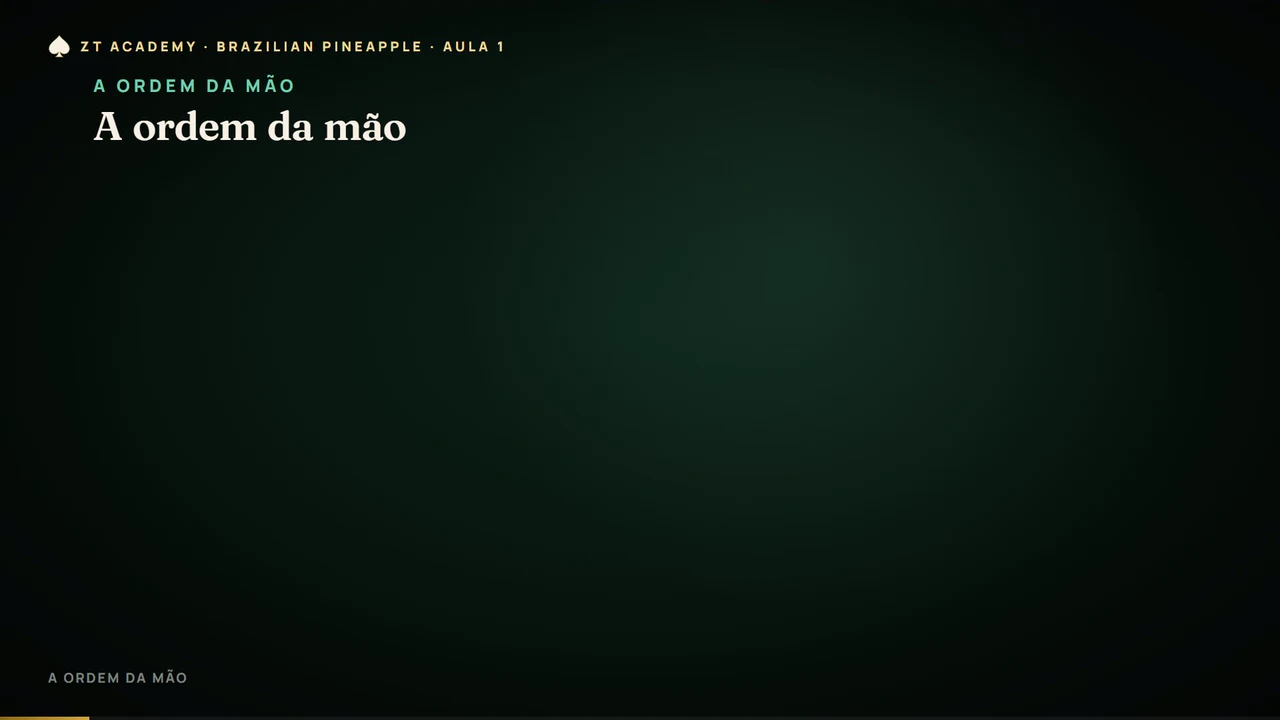
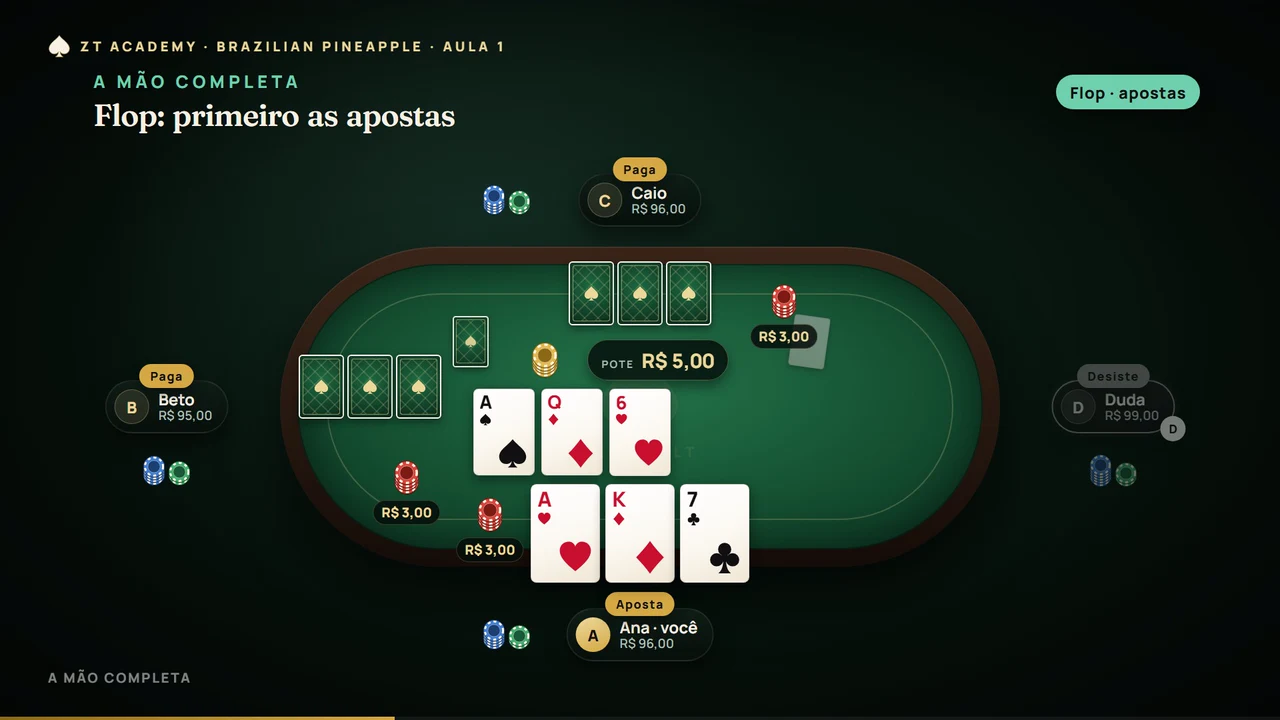
feat(academy): mesa de treino com a mesa oval do jogo
A mesa de treino passa a usar a mesma mesa do jogo (PokerTable em modo
vitrine): oval, placas com avatar, cartas fechadas dos bots, fichas da
aposta no feltro e as mesmas animações. Valores em fichas (formatAmount),
bots identificados pelo perfil e a escolha da carta na troca e no descarte
na área de ações. No fim da mão, as cinco cartas da melhor mão ficam
destacadas.

Ajustes: no celular, os assentos laterais ficam ancorados pela borda para a
placa não sair da tela; a etiqueta de troca não aparece mais no showdown;
capa da aula m5l3 refeita num momento com a mesa visível.

diff --git a/Frontend-Web/src/pages/TrainingPage.tsx b/Frontend-Web/src/pages/TrainingPage.tsx
@@ -1,6 +1,7 @@
 import { useEffect, useRef, useState } from "react";
 import { Link, useParams, useSearchParams } from "react-router";
 import { PlayingCard } from "@/components/PlayingCard";
+import { PokerTable } from "@/components/PokerTable";
 import { CourseSources } from "@/components/CourseSources";
 import { COURSE, findLesson } from "@/lib/course";
 import { actionLabel, newStudySeed, phaseLabel, playStudy, profileLabel, readStudyRecords, saveStudyRecord, TRAINING, type StudyAction, type StudyRecord, type StudyResponse, type TrainingScenario } from "@/lib/academy";
@@ -8,6 +9,9 @@ import "./training.css";
 
 const chips = (n: number) => n.toLocaleString("pt-BR");
 const variantName: Record<string, string> = { holdem: "Texas Hold’em", short_deck: "Texas Hold’em Short Deck", omaha: "Omaha 4", pineapple_draw: "Brazilian Pineapple" };
+
+/** Lugares na mesa de seis para 2, 3 ou 4 jogadores: herói embaixo, os outros no arco de cima. */
+const SEAT_ORDER: Record<number, number[]> = { 2: [0, 3], 3: [0, 2, 4], 4: [0, 2, 3, 4], 5: [0, 1, 2, 4, 5], 6: [0, 1, 2, 3, 4, 5] };
 
 export function TrainingPage() {
   const { moduleId } = useParams();
@@ -108,24 +112,51 @@ function TrainingSession({ moduleTitle, scenarios, initialId }: { moduleTitle: s
     <div className="study-workspace">
       <section className="study-main" aria-label="Mesa simuladora" aria-busy={busy}>
         <div className="study-table-head"><span>{state ? phaseLabel[state.phase] : "Preparando mesa…"}</span><span>{replayIndex !== null ? `Replay · passo ${replayIndex + 1}` : "Distribuição " + seed}</span></div>
-        {state && <div className="study-felt">
-          <div className="study-opponents">{state.players.slice(1).map((p, index) => <div key={p.id} className={`study-seat ${p.folded ? "is-folded" : ""}`}>
-            <div className="study-seat-top"><strong>{p.name}</strong><span>{p.position}</span></div><p>{profileLabel[scenario.profiles[index]]}</p>
-            <div className="study-cards">{Array.from({ length: p.card_count }, (_, i) => <PlayingCard key={i} code={p.cards[i]} faceDown={!p.cards[i]} size="sm" />)}</div>
-            <p><b>{chips(p.stack)}</b> fichas {p.all_in ? "· ALL-IN" : p.folded ? "· FOLD" : ""}</p>{p.bet > 0 && <span className="study-chip">Na rodada: {chips(p.bet)}</span>}
-            {typeof p.draw_count === "number" && <span className="study-chip">{p.draw_count === 0 ? "Manteve" : state.phase === "river" ? "Descartou" : `Trocou ${p.draw_count}`}</span>}
-            {state.finished && p.category && <p>{p.category}</p>}
-          </div>)}</div>
-          <div className="study-board"><span className="study-pot">Pote {chips(state.pot)}</span>{state.ante > 0 && <small>Ante do BB {chips(state.ante)} · pago {chips(state.ante_paid)} por {state.players.find(p => p.id === state.ante_player_id)?.name}</small>}<div className="study-cards">{Array.from({ length: 5 }, (_, i) => state.board[i] ? <PlayingCard key={i} code={state.board[i]} /> : <span key={i} className="study-card-slot" />)}</div><span className="study-watermark">ZT / ACADEMY</span></div>
-          <div className="study-hero"><span className="study-hero-label">VOCÊ · {state.players[0].position}</span><div className="study-cards">{state.players[0].cards.map((c, i) => drawing && !disabled
-            ? <button key={i} type="button" className={`rounded-sm p-0.5 ${swapPick === i ? "ring-2 ring-gold-bright" : "ring-1 ring-transparent"}`} aria-pressed={swapPick === i} aria-label={`Selecionar carta ${i + 1} para ${discarding ? "descartar" : "trocar"}`} onClick={() => setSwapPick(swapPick === i ? null : i)}><PlayingCard code={c} /></button>
-            : <PlayingCard key={i} code={c} highlight={state.finished && state.players[0].best_five.includes(c)} />)}</div><p><b>{chips(state.players[0].stack)}</b> fichas · investidas na rodada: {chips(state.players[0].bet)}</p>{(mode === "guided" || state.finished) && state.players[0].category && <p className="text-gold-bright">{state.players[0].category}</p>}</div>
+        {state && <div className="study-live">
+          <PokerTable
+            showcase
+            formatAmount={chips}
+            players={state.players.map((p, index) => ({
+              id: p.id,
+              name: index === 0 ? "Você" : `${p.name} · ${profileLabel[scenario.profiles[index - 1]] ?? ""}`,
+              chips: p.stack,
+              bet: p.bet,
+              cards: p.cards,
+              folded: p.folded,
+              is_active: !state.finished && state.acting === index,
+              is_dealer: p.position === "BTN" || p.position === "BTN/SB",
+              seat: SEAT_ORDER[state.players.length]?.[index] ?? index,
+              is_sitting: true,
+              draw_count: p.draw_count ?? null,
+            })) as never}
+            communityCards={state.board}
+            stage={state.phase}
+            pots={(state.pot > 0 ? [{ amount: state.pot - state.players.reduce((sum, p) => sum + p.bet, 0), eligible_players: [] }] : []) as never}
+            localPlayerId="hero"
+            availableActions={[]}
+            onAction={() => {}}
+            drawing={state.drawing}
+            discarding={state.discarding}
+            raiseAmount={0}
+            onRaiseChange={() => {}}
+            callAmount={0}
+            minimumWager={0}
+            maximumWager={0}
+            winners={state.finished && data ? Object.entries(data.payouts).filter(([, value]) => value > 0).map(([id]) => id) : []}
+            showdown={(state.finished ? state.players.filter((p) => !p.folded && p.best_five.length === 5).map((p) => ({ player_id: p.id, player_name: p.name, hand_name: p.category ?? "", cards: p.best_five })) : []) as never}
+            maxPlayers={6}
+          />
+          <div className="study-live-foot">
+            <span>VOCÊ · {state.players[0].position}</span>
+            {state.ante > 0 && <span>Ante do BB {chips(state.ante)} · pago {chips(state.ante_paid)} por {state.players.find(p => p.id === state.ante_player_id)?.name}</span>}
+            {(mode === "guided" || state.finished) && state.players[0].category && <strong>{state.players[0].category}</strong>}
+          </div>
         </div>}
         {!state && <div className="study-loading"><span className="zt-spinner" /> Carregando a distribuição…</div>}
         {data && !data.state.finished && !closed && replayIndex === null && <div className="study-controls">
           <div className="study-price"><span>Para pagar <b>{chips(data.legal.to_call)}</b></span><span>Seu stack <b>{chips(data.state.players[0].stack)}</b></span>{mode === "guided" && data.legal.to_call > 0 && <span>Preço do call <b>{data.legal.call_price_percent.toFixed(2).replace(".", ",")}%</b></span>}</div>
           {mode !== "free" && data.question && <div className="study-question"><label htmlFor="study-answer">{data.question.prompt}</label>{data.question.options.length ? <select id="study-answer" value={answer} onChange={e => setAnswer(e.target.value)}><option value="">Escolha sua leitura</option>{data.question.options.map(o => <option key={o}>{o}</option>)}</select> : <div className="flex items-center gap-2"><input id="study-answer" inputMode="decimal" autoComplete="off" value={answer} onChange={e => setAnswer(e.target.value)} placeholder="Sua resposta" /><span>{data.question.unit}</span></div>}<small>Responda antes de agir. O cálculo/leitura é avaliado separadamente do resultado da mão.</small></div>}
-          {discarding ? <div className="study-actions" aria-label="Descarte do river"><p className="w-full text-sm">Descarte do river: toque na carta que sai. Você joga a última rodada com duas.</p><button disabled={disabled || swapPick === null} onClick={() => swapPick !== null && act("discard", swapPick)}>Descartar a carta selecionada</button></div> : drawing ? <div className="study-actions" aria-label="Rodada de troca"><p className="w-full text-sm">Rodada de troca: toque numa carta para trocá-la ou mantenha as três.</p><button disabled={disabled} onClick={() => act("keep", 0)}>Manter as três</button><button disabled={disabled || swapPick === null} onClick={() => swapPick !== null && act("swap", swapPick)}>Trocar a carta selecionada</button></div> : <>
+          {discarding ? <div className="study-actions" aria-label="Descarte do river"><p className="w-full text-sm">Descarte do river: toque na carta que sai. Você joga a última rodada com duas.</p><div className="study-pick">{data.state.players[0].cards.map((c, i) => <button key={c} type="button" disabled={disabled} className={swapPick === i ? "on" : ""} aria-pressed={swapPick === i} aria-label={`Selecionar carta ${i + 1}`} onClick={() => setSwapPick(swapPick === i ? null : i)}><PlayingCard code={c} /></button>)}</div><button disabled={disabled || swapPick === null} onClick={() => swapPick !== null && act("discard", swapPick)}>Descartar a carta selecionada</button></div> : drawing ? <div className="study-actions" aria-label="Rodada de troca"><p className="w-full text-sm">Rodada de troca: toque numa carta para trocá-la ou mantenha as três.</p><div className="study-pick">{data.state.players[0].cards.map((c, i) => <button key={c} type="button" disabled={disabled} className={swapPick === i ? "on" : ""} aria-pressed={swapPick === i} aria-label={`Selecionar carta ${i + 1}`} onClick={() => setSwapPick(swapPick === i ? null : i)}><PlayingCard code={c} /></button>)}</div><button disabled={disabled} onClick={() => act("keep", 0)}>Manter as três</button><button disabled={disabled || swapPick === null} onClick={() => swapPick !== null && act("swap", swapPick)}>Trocar a carta selecionada</button></div> : <>
           <div className="study-actions"><button disabled={disabled} onClick={() => act("fold")} className="study-fold">Desistir</button><button disabled={disabled} onClick={() => act(data.legal.can_check ? "check" : "call")}>{data.legal.can_check ? "Check" : `Pagar ${chips(data.legal.to_call)}`}</button>{data.legal.can_all_in && <button disabled={disabled} onClick={() => act("all_in")}>All-in {chips(data.state.players[0].stack)}</button>}</div>
           {data.legal.can_raise && <div className="study-sizing"><label htmlFor="study-total">{data.legal.bet_exists ? "Aumentar para" : "Apostar"} · total na rodada</label><div>{<input id="study-total" type="number" min={data.legal.min_total} max={data.legal.max_total} step="1" value={amount} onChange={e => setAmount(Number(e.target.value))} />}<button disabled={disabled || !Number.isInteger(amount) || amount < data.legal.min_total || amount > data.legal.max_total} onClick={() => act(data.legal.bet_exists ? "raise" : "bet")}>{data.legal.bet_exists ? "Aumentar" : "Apostar"}</button></div><small>Mínimo {chips(data.legal.min_total)} · máximo {chips(data.legal.max_total)} fichas</small></div>}
           </>}

diff --git a/Frontend-Web/src/components/PokerTable.tsx b/Frontend-Web/src/components/PokerTable.tsx
@@ -24,6 +24,8 @@ interface Props {
   discarding?: boolean;
   /** Vitrine (home): só a mesa, sem cabeçalho, barra de ações nem som. */
   showcase?: boolean;
+  /** Como escrever valores na mesa (padrão: reais a partir de centavos). */
+  formatAmount?: (value: number) => string;
   ante?: number;
   antePaid?: number;
   antePlayerId?: string | null;
@@ -56,6 +58,7 @@ export function PokerTable({
   drawing = false,
   discarding = false,
   showcase = false,
+  formatAmount,
   ante = 0,
   antePaid = 0,
   antePlayerId,
@@ -71,6 +74,7 @@ export function PokerTable({
   maxPlayers = 9,
   boardStaggerFrom = 0,
 }: Props) {
+  const money = formatAmount ?? formatChips;
   const pineapple = bettingStructure === "pineapple_draw_v1";
   const wager = raiseAmount;
   const streetBase = pineapple ? (players.find(p => p.id === localPlayerId)?.bet ?? 0) + callAmount : 0;
@@ -382,7 +386,7 @@ export function PokerTable({
               animate={{ scale: 1, color: "#ecd99a" }}
               transition={{ duration: 0.35 }}
             >
-              {formatChips(potTotal)}
+              {money(potTotal)}
             </motion.span>
           </div>
           <div className="flex gap-1.5">
@@ -426,7 +430,7 @@ export function PokerTable({
                 animate={{ opacity: 1, scale: 1 }}
                 exit={{ opacity: 0, scale: 0.7 }}
                 transition={{ duration: 0.22, delay: 0.25 }}
-                aria-label={`Aposta de ${p.name}: ${formatChips(p.bet)}`}
+                aria-label={`Aposta de ${p.name}: ${money(p.bet)}`}
               >
                 <span className="zt-chip-stack" aria-hidden="true">
                   <i />
@@ -434,7 +438,7 @@ export function PokerTable({
                   <i />
                 </span>
                 <motion.span key={p.bet} className="zt-bet-amount" initial={{ scale: 1.2 }} animate={{ scale: 1 }}>
-                  {formatChips(p.bet)}
+                  {money(p.bet)}
                 </motion.span>
               </motion.div>
             );
@@ -483,7 +487,7 @@ export function PokerTable({
             ? "Sit-out"
             : isWinner
               ? "Vencedor"
-              : typeof p.draw_count === "number" && stage !== "preflop"
+              : typeof p.draw_count === "number" && ["flop", "turn", "river"].includes(stage)
                 ? p.draw_count === 0
                   ? "Manteve"
                   : stage === "river"
@@ -555,7 +559,7 @@ export function PokerTable({
           return (
             <div
               key={p.id}
-              className={`zt-seat zt-seat-ft ${upper ? "upper" : ""}`}
+              className={`zt-seat zt-seat-ft ${upper ? "upper" : ""} ${layout.left < 20 ? "edge-left" : layout.left > 80 ? "edge-right" : ""}`}
               style={{ top: `${layout.top}%`, left: `${layout.left}%` }}
             >
               {!upper && cards}
@@ -566,9 +570,9 @@ export function PokerTable({
                 <span className="zt-seat-info">
                   <span className="zt-seat-name" title={isHouseBot ? "Bot da casa — garante ação na mesa" : p.name}>
                     {p.name}
-                    {isLocal && <span className="zt-seat-you"> · você</span>}
+                    {isLocal && p.name !== "Você" && <span className="zt-seat-you"> · você</span>}
                   </span>
-                  <span className="zt-seat-chips">{formatChips(p.chips)}</span>
+                  <span className="zt-seat-chips">{money(p.chips)}</span>
                 </span>
                 {p.is_dealer && (
                   <span className="zt-dealer-button" title="Botão do dealer" aria-label="Dealer">
@@ -587,7 +591,7 @@ export function PokerTable({
       {!showcase && pineapple && <p className="text-center text-xs text-felt-200 mt-3">Troca opcional de uma carta depois das apostas do flop e do turn · No river, cada jogador descarta uma carta e joga a última rodada com duas · Todas as rodadas: aumento limitado ao pote antes do call</p>}
       {!showcase && drawing && !canDraw && <p className="text-center text-xs font-semibold text-gold-soft" role="status">Rodada de troca: cada jogador mantém as cartas ou troca uma.</p>}
       {!showcase && discarding && !canDiscard && <p className="text-center text-xs font-semibold text-gold-soft" role="status">Descarte do river: cada jogador descarta uma carta e fica com duas.</p>}
-      {!showcase && ante > 0 && <p className="text-center text-xs text-felt-200">Ante do BB {formatChips(ante)} · pago {formatChips(antePaid)} por {players.find(p => p.id === antePlayerId)?.name ?? "big blind"}</p>}
+      {!showcase && ante > 0 && <p className="text-center text-xs text-felt-200">Ante do BB {money(ante)} · pago {money(antePaid)} por {players.find(p => p.id === antePlayerId)?.name ?? "big blind"}</p>}
       <div className={showcase ? "hidden" : "zt-action-bar"}>
         {canDraw || canDiscard ? (
           <div className="flex flex-wrap items-end gap-3" aria-label={canDiscard ? "Descarte do river" : "Rodada de troca"}>
@@ -635,7 +639,7 @@ export function PokerTable({
               {([
                 ["check_fold", pendingCall > 0 ? "Desistir" : "Check ou desistir"],
                 ...(pendingCall === 0 ? [["check", "Check"]] : []),
-                ...(pendingCall > 0 ? [["call", `Pagar ${formatChips(pendingCall)}`]] : []),
+                ...(pendingCall > 0 ? [["call", `Pagar ${money(pendingCall)}`]] : []),
               ] as [PreAction, string][]).map(([kind, label]) => (
                 <button
                   key={kind}
@@ -672,7 +676,7 @@ export function PokerTable({
                   : a === "check"
                     ? "Check"
                     : a === "call"
-                      ? `Pagar ${formatChips(callAmount)}`
+                      ? `Pagar ${money(callAmount)}`
                       : raw;
               const hint = a === "fold" ? "F" : a === "check" || a === "call" ? "C" : null;
               const danger = a === "fold";
@@ -724,7 +728,7 @@ export function PokerTable({
                   className="zt-btn-primary"
                   onClick={() => onAction(wagerAction, wager)}
                 >
-                  {wagerAction === "bet" ? `Apostar ${formatChips(wager)}` : `Aumentar para ${formatChips(wager)}`}
+                  {wagerAction === "bet" ? `Apostar ${money(wager)}` : `Aumentar para ${money(wager)}`}
                   <kbd className="zt-key">A</kbd>
                 </button>
               </div>

diff --git a/Frontend-Web/src/pages/training.css b/Frontend-Web/src/pages/training.css
@@ -2,3 +2,6 @@
 @media(max-width:1000px){.study-workspace{grid-template-columns:1fr}.study-side{grid-template-columns:repeat(2,minmax(0,1fr))}.study-heading{flex-direction:column}.study-badge{align-self:start}}
 @media(max-width:540px){.study-page{gap:14px}.study-felt{padding:18px 8px;gap:22px}.study-opponents{gap:8px}.study-seat{min-width:130px;padding:10px 6px}.study-seat .study-cards{gap:2px}.study-seat .zt-playing-card{width:27px;height:42px;font-size:10px}.study-controls{padding:16px}.study-side{grid-template-columns:1fr}.study-replay{padding:16px}.study-heading h1{font-size:27px}.study-table-head{padding:12px 10px;font-size:10px}.study-toolbar{padding:14px}.study-actions button{padding:10px 8px;font-size:11px}.study-price{gap:15px}.study-sizing>div{gap:8px}}
 .study-saved{display:grid;gap:8px}.study-saved button{display:grid;gap:4px;text-align:left;background:#1a2c20;border:1px solid #45604d;border-radius:7px;padding:10px;font-size:12px}.study-saved strong{font-weight:500;color:#e6d3a8}
+.study-live{padding:26px 14px 10px;background:radial-gradient(ellipse at 50% 30%,#12382755,#07140f99)}.study-live-foot{display:flex;flex-wrap:wrap;gap:8px 18px;align-items:center;justify-content:center;margin-top:34px;font-size:12px;color:#b6c6bc}.study-live-foot strong{color:#e8c35a;font-size:14px}
+.study-pick{display:flex;gap:8px;width:100%;margin:6px 0}.study-pick button{padding:3px;border-radius:8px;border:2px solid transparent;background:none}.study-pick button.on{border-color:#e8c35a;box-shadow:0 0 14px #e8c35a88}
+@media(max-width:540px){.study-live{padding:18px 4px 8px}}

diff --git a/Frontend-Web/src/index.css b/Frontend-Web/src/index.css
@@ -663,6 +663,15 @@
     .zt-seat-cards > * + * {
       margin-left: -10px;
     }
+    /* Assentos das laterais: ancorados pela borda para a placa não sair da tela. */
+    .zt-seat.zt-seat-ft.edge-left {
+      align-items: flex-start;
+      translate: -24% -50%;
+    }
+    .zt-seat.zt-seat-ft.edge-right {
+      align-items: flex-end;
+      translate: -76% -50%;
+    }
   }
 
   .zt-felt-table.zt-demo-table {
